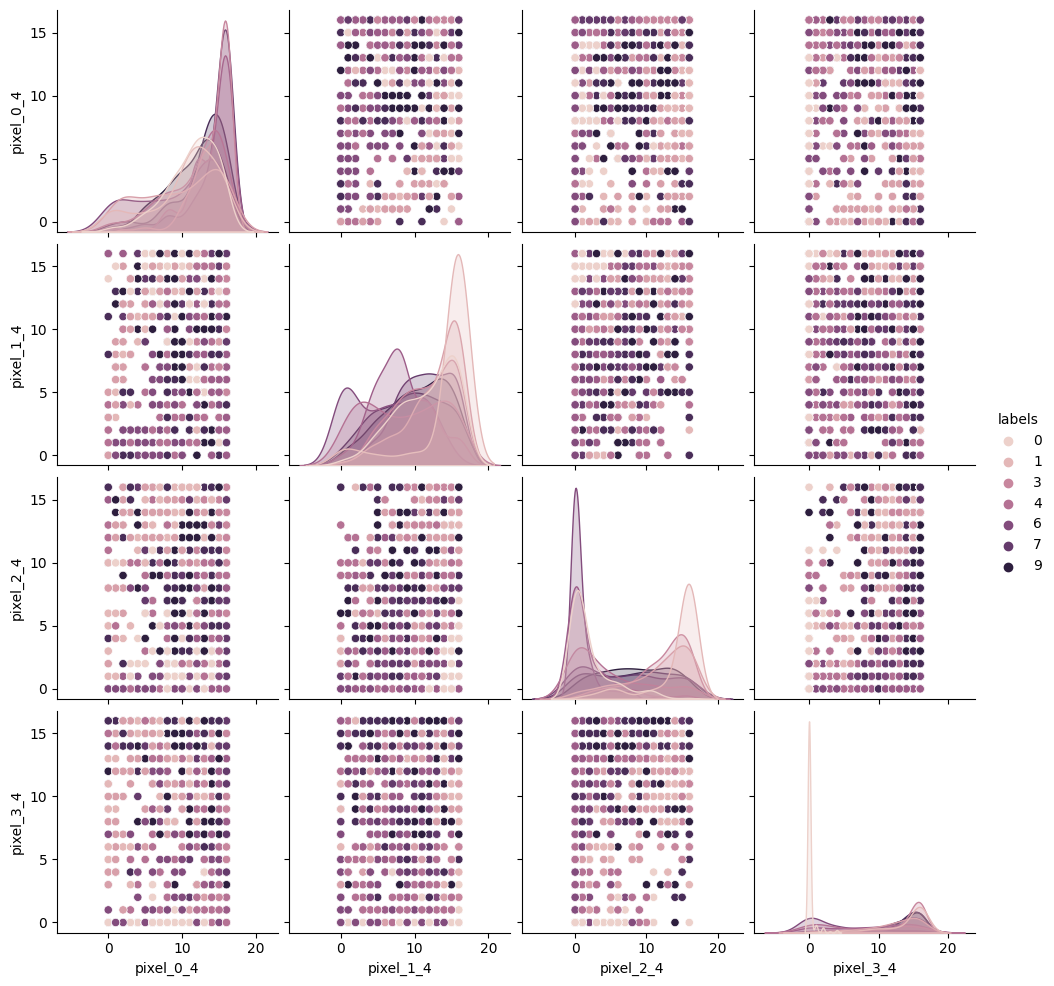
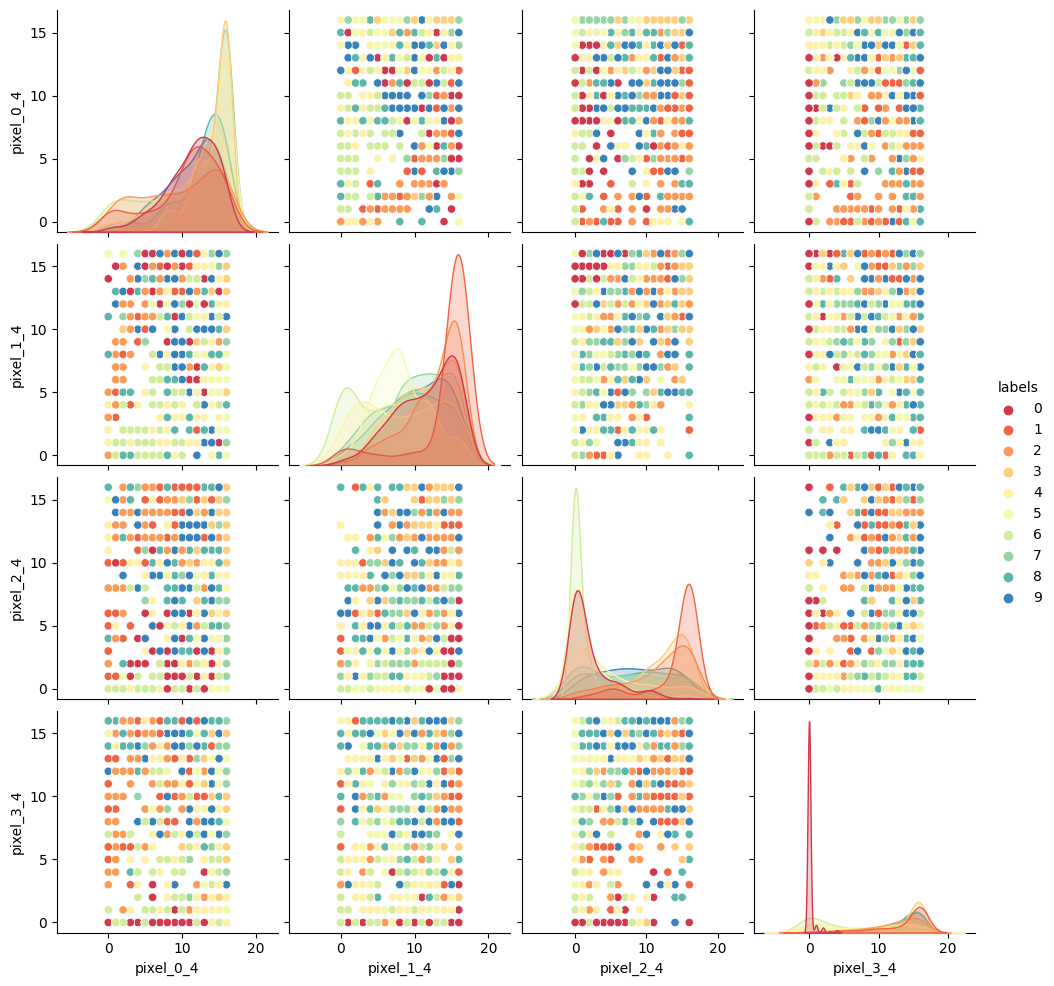
Update dimensionality-reduction

diff --git a/episodes/06-dimensionality-reduction.md b/episodes/06-dimensionality-reduction.md
@@ -39,11 +39,11 @@ features.head()
 ~~~
 {: .language-python}
 
-## Our goal: using dimensionality-reduction to help with clustering and classification
+## Our goal: using dimensionality-reduction to help with machine learning
 
-As humans we are pretty good at object and pattern recognition. We can look at the images above, inspect the intensity and position of each pixel relative to all other pixels in the image, and pretty quickly make an accurate guess at what the image shows. As humans we spends much of our younger lives learning these spatial relations, and so it stands to reason that we can teach computers to recognise these patterns and relations too.
+As humans we are pretty good at object and pattern recognition. We can look at the images above, inspect the intensity and position pixels relative to other pixels, and pretty quickly make an accurate guess at what the image shows. As humans we spends much of our younger lives learning these spatial relations, and so it stands to reason that computers can also extract these relations. Let's see if it is possible to use unsupervised clustering techniques to pull out relations in our MNIST dataset of number images.
 
-As we did for previous datasets, let's have a quick glance at relationships between our features/pixels. We'll inspect the following pixels:
+As we did for previous datasets, let's have a quick glance at relationships between our features/pixels. We'll inspect the relationships between a few pixel features to look for any correlations:
 
 ~~~
 import matplotlib.pyplot as plt
@@ -55,10 +55,13 @@ image_2D = np.array(image_1D).reshape(-1,8)
 
 plt.imshow(image_2D,cmap="gray_r")
 # these points are the pixels we will investigate
+# pixels 0,1,2,3 of row 4 of the image
 plt.plot([0,1,2,3],[4,4,4,4],"rx")
 plt.show()
 ~~~
 {: .language-python}
+
+![SKLearn image with highlighted pixels](../fig/mnist_pairplot_pixels.png)
 
 ~~~
 import seaborn as sns
@@ -66,106 +69,174 @@ import seaborn as sns
 # make a temporary copy of data for plotting here only
 seaborn_data = features
 
-# add labels to the dataset for pairplot color coding
+# add labels for pairplot color coding
 seaborn_data["labels"] = labels
 
 # make a short list of N features for plotting N*N figures
+# 4**2 = 16 plots, whereas 64**2 is over 4000!
 feature_subset = []
-
-# in this case let's extract 4 pixels (out of 64) and plot their relations
 for i in range(4):
     feature_subset.append("pixel_"+str(i)+"_4")
 
-sns.pairplot(seaborn_data, vars=feature_subset, hue="labels")
+sns.pairplot(seaborn_data, vars=feature_subset, hue="labels", 
+             palette=sns.mpl_palette("Spectral", n_colors=10))
 ~~~
 {: .language-python}
 
-![SKLearn image with highlighted pixels](../fig/mnist_pairplot_pixels.png)
-
 ![SKLearn image with highlighted pixels](../fig/mnist_pairplot.png)
 
-As we can see the dataset relations are far more complex than our previous examples. The histograms show that some numbers appear in those pixel positions more than others (note that 2,5 and 8 do not appear in our 4 pixels at all!), but the structure is quite messy to try and decipher. It seems like there is some underlying structure that has patches of colour and also gaps. We can't obviously see any structures in our 2D representations, and we know our clustering algorithms will take a long time to try and crunch 64 dimensions. so let's see if we can represent our 64D data in fewer dimensions.
+As we can see the dataset relations are far more complex than our previous examples. The histograms show that some numbers appear in those pixel positions more than others, but the `feature_vs_feature` plots are quite messy to try and decipher. There are gaps and patches of colour suggesting that there is some kind of structure there, but it's far harder to inspect than the penguin data. We can't easily see definitive clusters in our 2D representations, and we know our clustering algorithms will take a long time to try and crunch 64 dimensions at once, so let's see if we can represent our 64D data in fewer dimensions.
 
 # Dimensionality reduction with Scikit-Learn
 We will look at two commonly used techniques for dimensionality reduction: Principal Component Analysis (PCA) and t-distributed Stochastic Neighbor Embedding (t-SNE). Both of these techniques are supported by Scikit-Learn.
 
 ### Principal Component Analysis (PCA)
 
-PCA uses feature extraction, i.e., it combines our input variables in a specific way so we can drop the least important or least significant variables while still retaining the fundamental attributes of our old variables. 
+PCA works by rotating our original set of vectors/axes/features into their principal components i.e. the rotations, around the dataset mean value, that produces the largest variance for our data. There are as many components as there are dimensions, and each principal component is orthoganal to the others.
 
-PCA takes the variance(or spread) of the data into account to reduce the dimensions.  Dimensions or variables having high variance have high information. Therefore, variables having very low variance can be removed or skipped. 
+The example below shows how the principal components are determined for a 2D dataset. The largest principal component is along the diagonal of the dataset, meaning the remaining principal is orthoganal to this one. Essentially, this is just a rotation of our axis until variance is maximised for that axis rotation. If we have more than 2 dimensions, then we order the principal components in descending variance order. 
 
-When the variance of both the dimensions is comparable, i.e., there is no significant difference in the variance of the dimensions we are trying to compare, PCA projects the data from the two dimensions into a single vector which is the direction of the maximum variance. Let's understand this with an example.
+![SKLearn image with highlighted pixels](../fig/pca_2d.gif)
 
-More complicated explanation: PCA is an important technique for visualizing high-dimensional data. PCA is a deterministic linear technique which projects n-dimensional data into k-dimensions, where `n < k`, while preserving the global structure of the input data. Dimension reduction in PCA involves transforming highly-correlated data by rotating the original set of vectors into their principal components. The variance between the transformation can be inferred by computing their eigen values.
+For more in depth explanations of PCA please see the following links:
+* [https://builtin.com/data-science/step-step-explanation-principal-component-analysis](https://builtin.com/data-science/step-step-explanation-principal-component-analysis)
+* [https://scikit-learn.org/stable/modules/decomposition.html#pca](https://scikit-learn.org/stable/modules/decomposition.html#pca)
 
-The process of reducing dimensionality in PCA is as follows,
-1. calculate the mean of each column
-2. center the value in each column by subtracting the mean column value
-3. calculate covariance matrix of centered matrix
-4. calculate eigendecomposition of the covariance (eigenvectors represent the magnitude of directions or components of the subspace reduction)
-
-Minimizing the eigen values closer to zero implies that the dataset has been successfully decomposed into it's respective principal components. 
-
-Scikit-Learn lets us apply PCA in a relatively simple way. Lets code and apply PCA to the MNIST dataset. 
+PCA allows us to replace our 64 features with a smaller number of dimensional representations that retain the majority of our variance/relational data. Using Scikit-Learn lets apply PCA in a relatively simple way. Let's apply PCA to the MNIST dataset and retain the two most-major components: 
 
 ~~~
 from sklearn import decomposition
 
-# PCA
+# PCA with 2 components
 pca = decomposition.PCA(n_components=2)
-pca.fit(x)
-x_pca = pca.transform(x)
+pca.fit(features)
+x_pca = pca.transform(features)
 
 print(x_pca.shape)
 ~~~
 {: .language-python}
 
-This returns us an array of 1797x2 where the 2 remaining columns(our new "features" or "dimensions") contain vector representations of the First principle components (column 0) and Second Principle components (column 1) for each of the images. We can plot these two new features against each other:
+This returns us an array of 1797x2 where the 2 remaining columns(our new "features" or "dimensions") contain vector representations of the first principle components (column 0) and second principle components (column 1) for each of the images. We can plot these two new features against each other:
 
 ~~~
 import numpy as np
 import matplotlib.pyplot as plt
 
-fig = plt.figure(1, figsize=(4, 4))
-
 tx = x_pca[:, 0]
 ty = x_pca[:, 1]
 
-plt.scatter(tx, ty, c=y, cmap=plt.cm.nipy_spectral, 
-        edgecolor='k',label=y)
+# without labels
+fig = plt.figure(1, figsize=(4, 4))
+plt.scatter(tx, ty, edgecolor='k',label=labels)
+plt.show()
+~~~
+{: .language-python}
+
+![Reduction using PCA](../fig/pca_unlabelled.png)
+
+We now have a 2D representation of our 64D dataset that we can work with instead. Let's try some quick K-means clustering on our 2D representation of the data. Because we already have some knowledge about our data we can set `k=10` for the 10 digits present in the dataset.
+
+~~~
+import sklearn.cluster as skl_cluster
+
+Kmean = skl_cluster.KMeans(n_clusters=10)
+
+Kmean.fit(x_pca)
+clusters = Kmean.predict(x_pca,labels)
+
+fig = plt.figure(1, figsize=(4, 4))
+plt.scatter(tx, ty, s=5, linewidth=0, c=clusters)
+for cluster_x, cluster_y in Kmean.cluster_centers_:
+    plt.scatter(cluster_x, cluster_y, s=100, c='r', marker='x')
+plt.show()
+~~~
+{: .language-python}
+
+![Reduction using PCA](../fig/pca_clustered.png)
+
+And now we can compare how these clusters look against our actual image labels by colour coding our first scatter plot:
+
+~~~
+fig = plt.figure(1, figsize=(5, 4))
+plt.scatter(tx, ty, c=labels, cmap="nipy_spectral", 
+        edgecolor='k',label=labels)
 plt.colorbar(boundaries=np.arange(11)-0.5).set_ticks(np.arange(10))
 plt.show()
 ~~~
 {: .language-python}
 
-![Reduction using PCA](../fig/pca.svg)
+![Reduction using PCA](../fig/pca_labelled.png)
 
-As illustrated in the figure above, PCA does not handle outlier data well, primarily due to global preservation of structural information. Pre-determining the principal components also has some of the same drawbacks as k-means clustering approaches. 
+PCA has done a valiant effort to reduce the dimensionality of our problem from 64D to 2D while still retaining some of our key structural information. We can see that the digits `0`,`1`,`4`, and `6` cluster up reasonably well even using a simple k-means test. However it does look like there is still quite a bit of overlap between the remaining digits, especially for the digits `5` and `8`. The clustering is from perfect in the largest "blob", but not a bad effort from PCA given the substantial dimensionality reduction.
+
+It's worth noting that PCA does not handle outlier data well primarily due to global preservation of structural information, and so we will now look at a more complex form of learning that we can apply to this problem.
 
 ### t-distributed Stochastic Neighbor Embedding (t-SNE)
-t-SNE is a non-deterministic non-linear technique which involves several optional hyper-parameters such as perplexity, learning rate, and number of steps. While the t-SNE algorithm is complex to explain, it works on the principle of preserving local similarities by minimizing the pairwise gaussian distance between two or more points in high-dimensional space. The versatility of the algorithm in transforming the underlying structural information into lower-order projections makes t-SNE applicable to a wide range of research domains.
 
-Scikit-Learn allows us to apply t-SNE in a relatively simple way. Lets code and apply t-SNE to the MNIST dataset.
+t-SNE is a powerful example of manifold learning - a non-deterministic non-linear approach to dimensionality reduction. Manifold learning tasks are based on the idea that the dimension of many datasets is artificially high. This is likely the case for our MNIST dataset, as many of the corner pixels are unlikely to contain digit data and thus unlikely to contribute meaningful information to our dataset.
+
+The versatility of the algorithm in transforming the underlying structural information into lower-order projections makes t-SNE applicable to a wide range of research domains.  
+
+For more in depth explanations of t-SNE and manifold learning please see the following links which also contain som very nice visual examples of manifold learning in action:
+* [https://thedatafrog.com/en/articles/visualizing-datasets/](https://thedatafrog.com/en/articles/visualizing-datasets/)
+* [https://scikit-learn.org/stable/modules/manifold.html](https://scikit-learn.org/stable/modules/manifold.html)
+
+Scikit-Learn allows us to apply t-SNE in a relatively simple way. Lets code and apply t-SNE to the MNIST dataset in the same manner that we did for the PCA example, and reduce the data down from 64D to 2D again:
 
 ~~~
 from sklearn import manifold
 
 # t-SNE embedding
 tsne = manifold.TSNE(n_components=2, init='pca', random_state = 0)
-x_tsne = tsne.fit_transform(x)
+x_tsne = tsne.fit_transform(features)
+
+
 fig = plt.figure(1, figsize=(4, 4))
-plt.clf()
-plt.scatter(x_tsne[:, 0], x_tsne[:, 1], c=y, cmap=plt.cm.nipy_spectral,
-        edgecolor='k',label=y)
+plt.scatter(x_tsne[:, 0], x_tsne[:, 1], edgecolor='k')
+plt.show()
+~~~
+{: .language-python}
+
+![Reduction using PCA](../fig/tsne_unlabelled.png)
+
+
+It looks like t-SNE has done a much better job of splitting our data up into clusters using only a 2D representation of the data. Once again, let's run a simple k-means clustering on this new 2D representation, and compare with the actual color-labelled data:
+
+~~~
+import sklearn.cluster as skl_cluster
+
+Kmean = skl_cluster.KMeans(n_clusters=10)
+
+Kmean.fit(x_tsne)
+clusters = Kmean.predict(x_tsne,labels)
+
+fig = plt.figure(1, figsize=(4, 4))
+plt.scatter(x_tsne[:,0], x_tsne[:,1], s=5, linewidth=0, c=clusters)
+for cluster_x, cluster_y in Kmean.cluster_centers_:
+    plt.scatter(cluster_x, cluster_y, s=100, c='r', marker='x')
+plt.show()
+
+# with labels
+fig = plt.figure(1, figsize=(5, 4))
+plt.scatter(x_tsne[:, 0], x_tsne[:, 1], c=labels, cmap="nipy_spectral", 
+        edgecolor='k',label=labels)
 plt.colorbar(boundaries=np.arange(11)-0.5).set_ticks(np.arange(10))
 plt.show()
 ~~~
 {: .language-python}
 
-![Reduction using t-SNE](../fig/tsne.svg)
+![Reduction using PCA](../fig/tsne_clustered.png)
 
-The major drawback of applying t-SNE to datasets is the large computational requirement. Furthermore, hyper-parameter tuning of t-SNE usually requires some trial and error to perfect. In the above figure, the algorithm still has trouble separating all the classes perfectly. To account for even higher-order input data, neural networks were developed to more accurately extract feature information.
+![Reduction using PCA](../fig/tsne_labelled.png)
+
+
+It looks like t-SNE has successfully separated out our digits into accurate clusters using as little as a 2D representation and a simple k-means clustering algorithm. It has worked so well that you can clearly see several clusters which can be modelled, whereas for our PCA representation we needed to rely heavily on the knowledge that we had 10 types of digits to cluster.
+
+Additionally, if we had run k-means on all 64 dimensions this would likely still be computing away, whereas we have already broken down our dataset into accurate clusters, with only a handful of outliers and potential misidentifications (remember, a good ML model isn't a perfect model!)
+
+The major drawback of applying t-SNE to datasets is the large computational requirement. Furthermore, hyper-parameter tuning of t-SNE usually requires some trial and error to perfect. 
+
+Our example here is still a relatively simple example of 8x8 images and not very typical of the modern problems that can now be solved in the field of ML and DL. To account for even higher-order input data, neural networks were developed to more accurately extract feature information.
 
 
 > ## Exercise: Working in three dimensions
